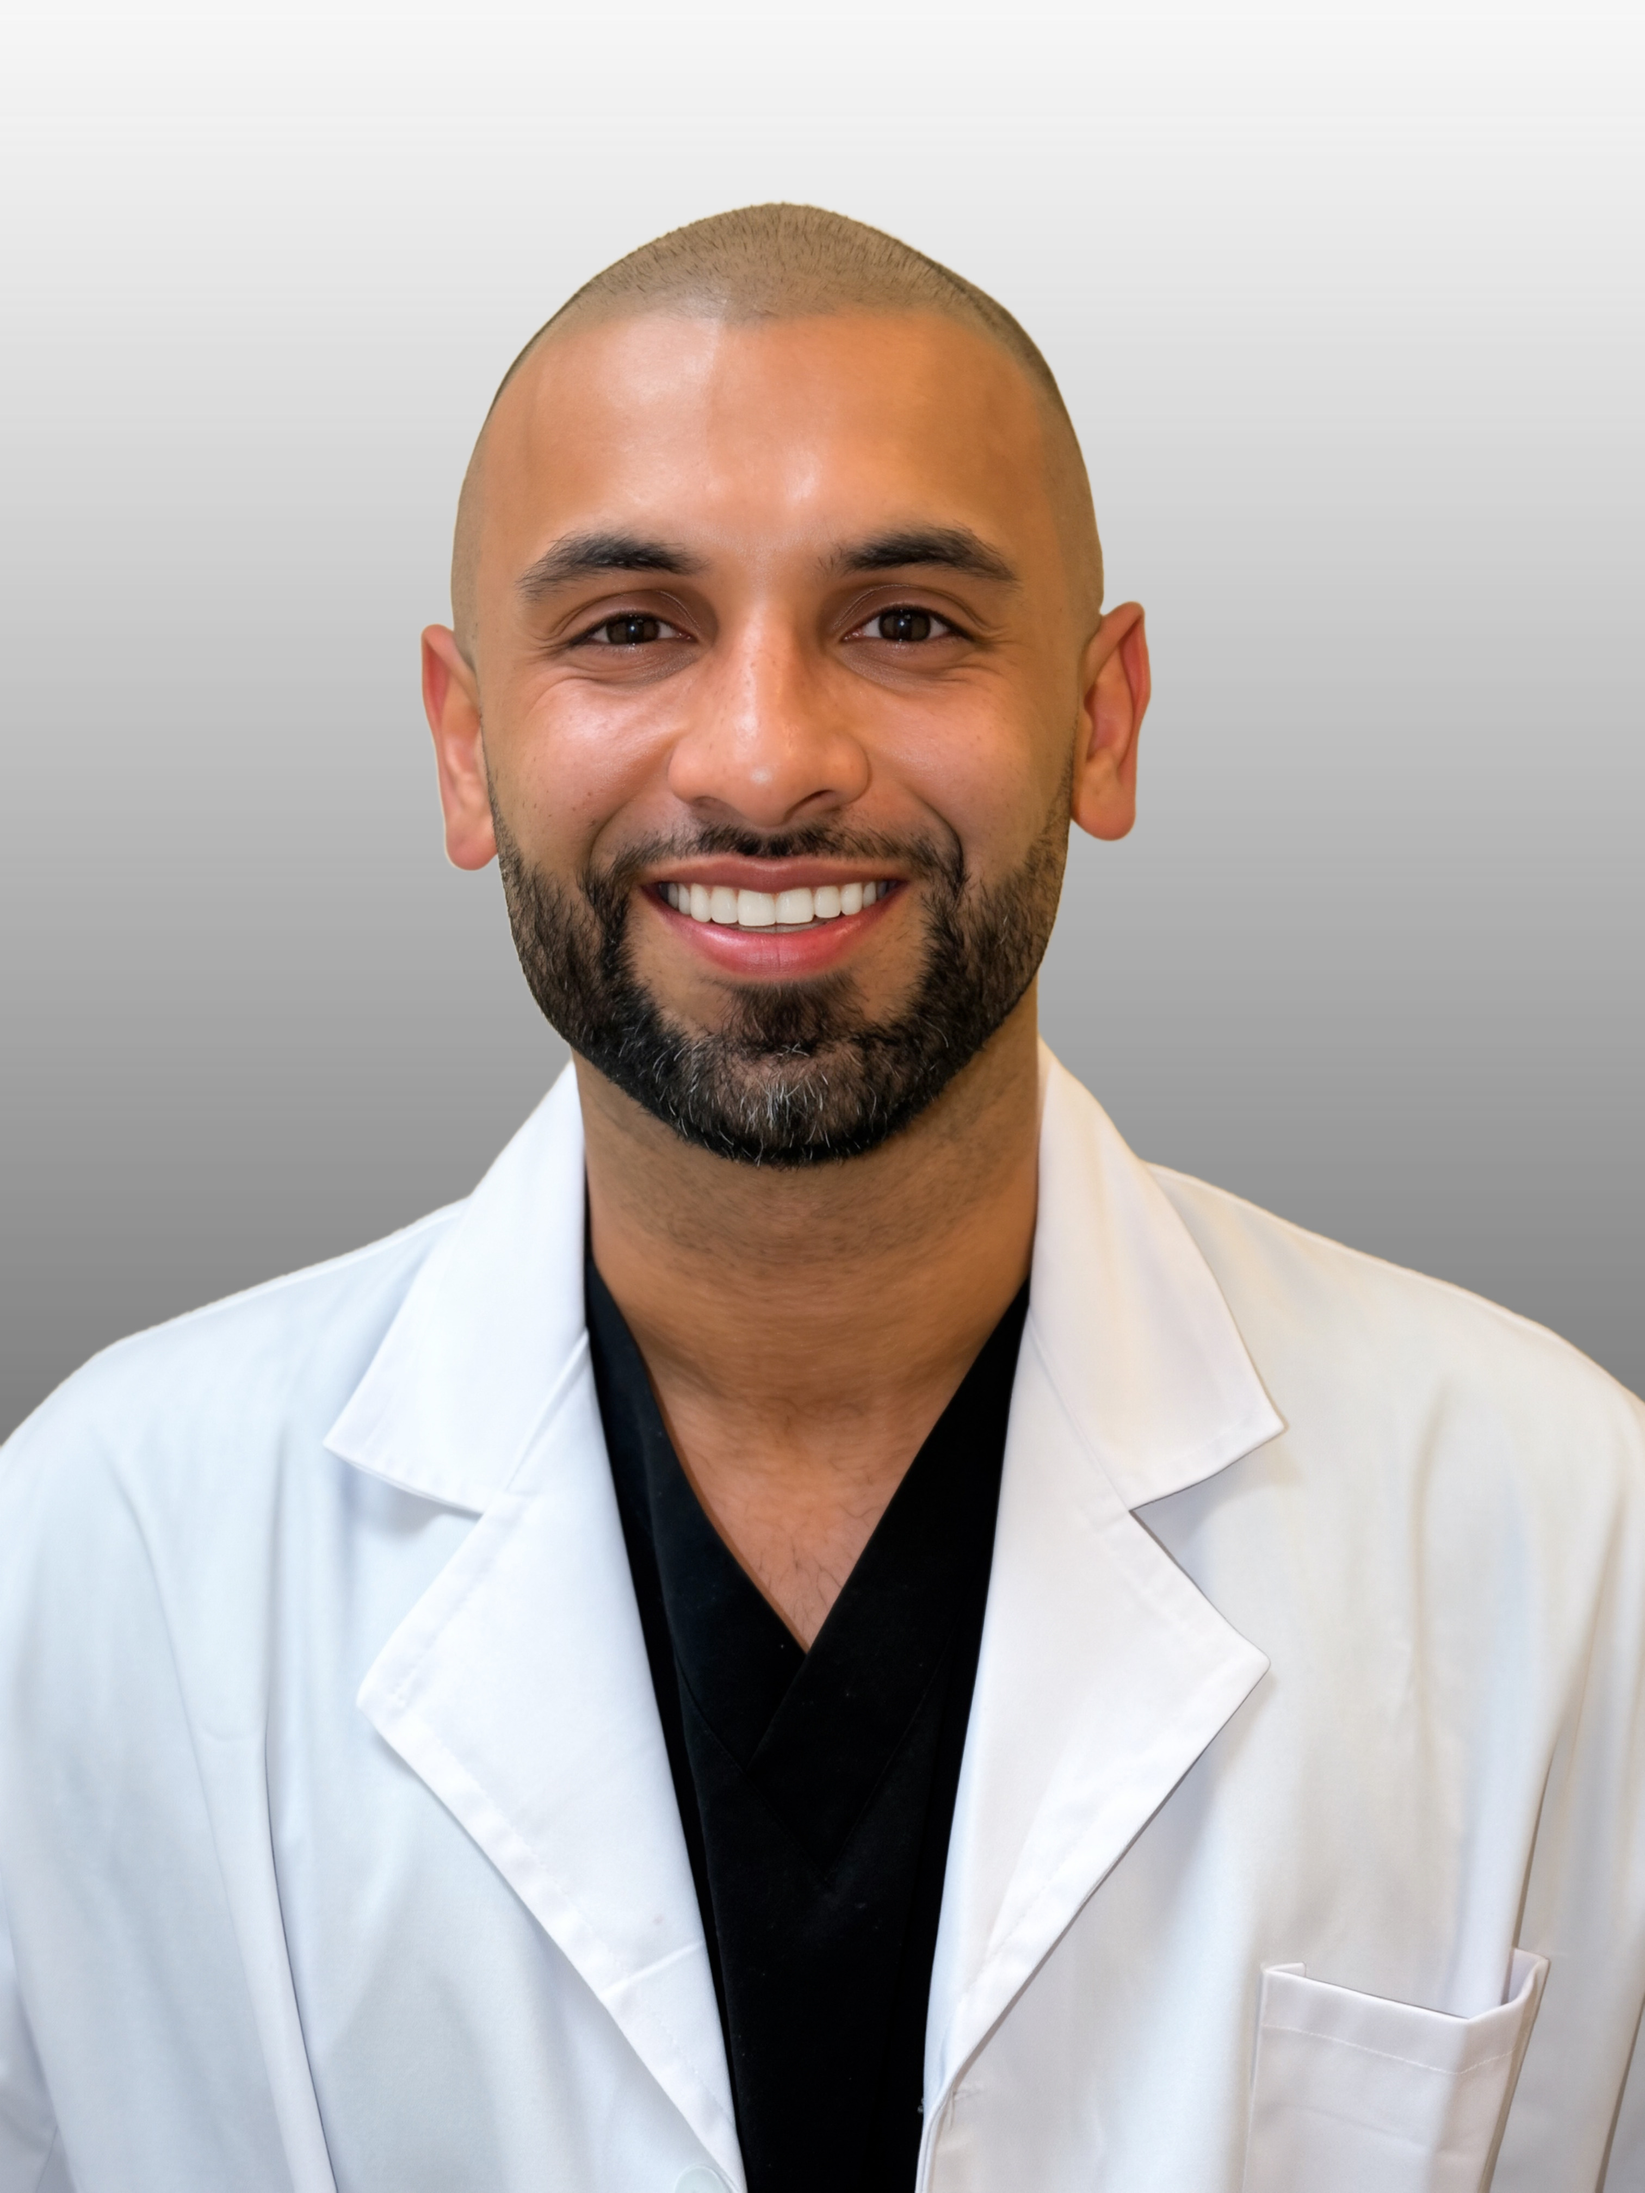
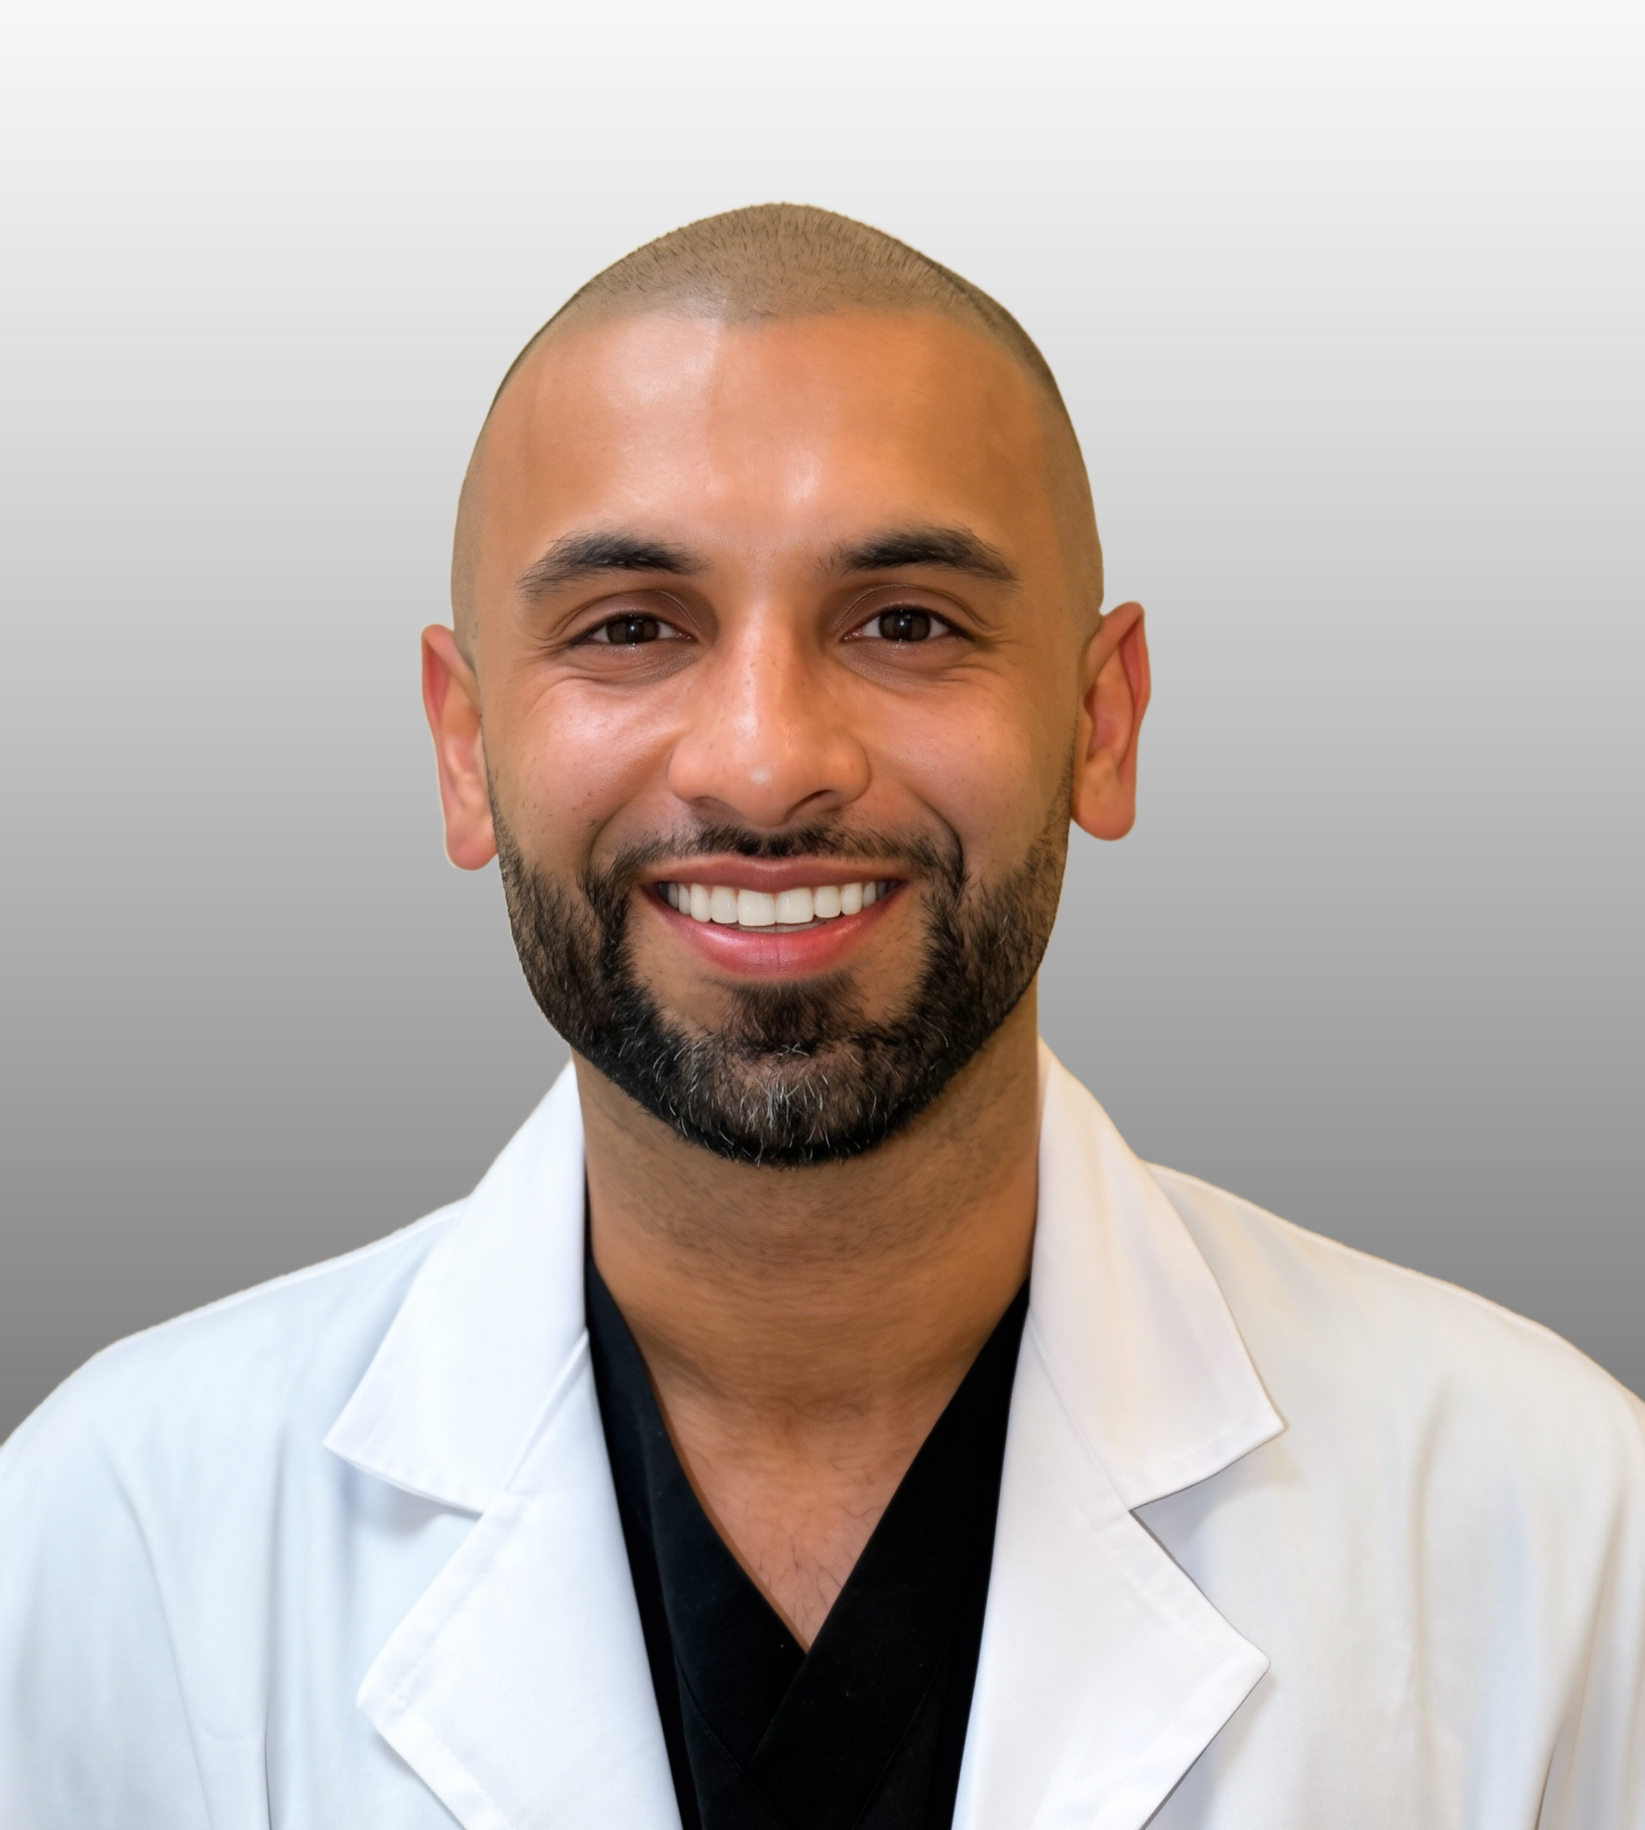
Fix/ Image of dr sheryar fixed

diff --git a/src/app/eldersmiles/page.tsx b/src/app/eldersmiles/page.tsx
@@ -57,7 +57,7 @@ export default function EldersmilesPage() {
 
             <div className="relative aspect-4/3 overflow-hidden rounded-2xl">
               <Image
-                src="/images/dr-sheryar.png"
+                src="/images/dr-sheryar-khan.jpg"
                 alt="An ElderSmiles dentist treating a resident"
                 fill
                 sizes="(max-width: 1024px) 100vw, 40vw"
